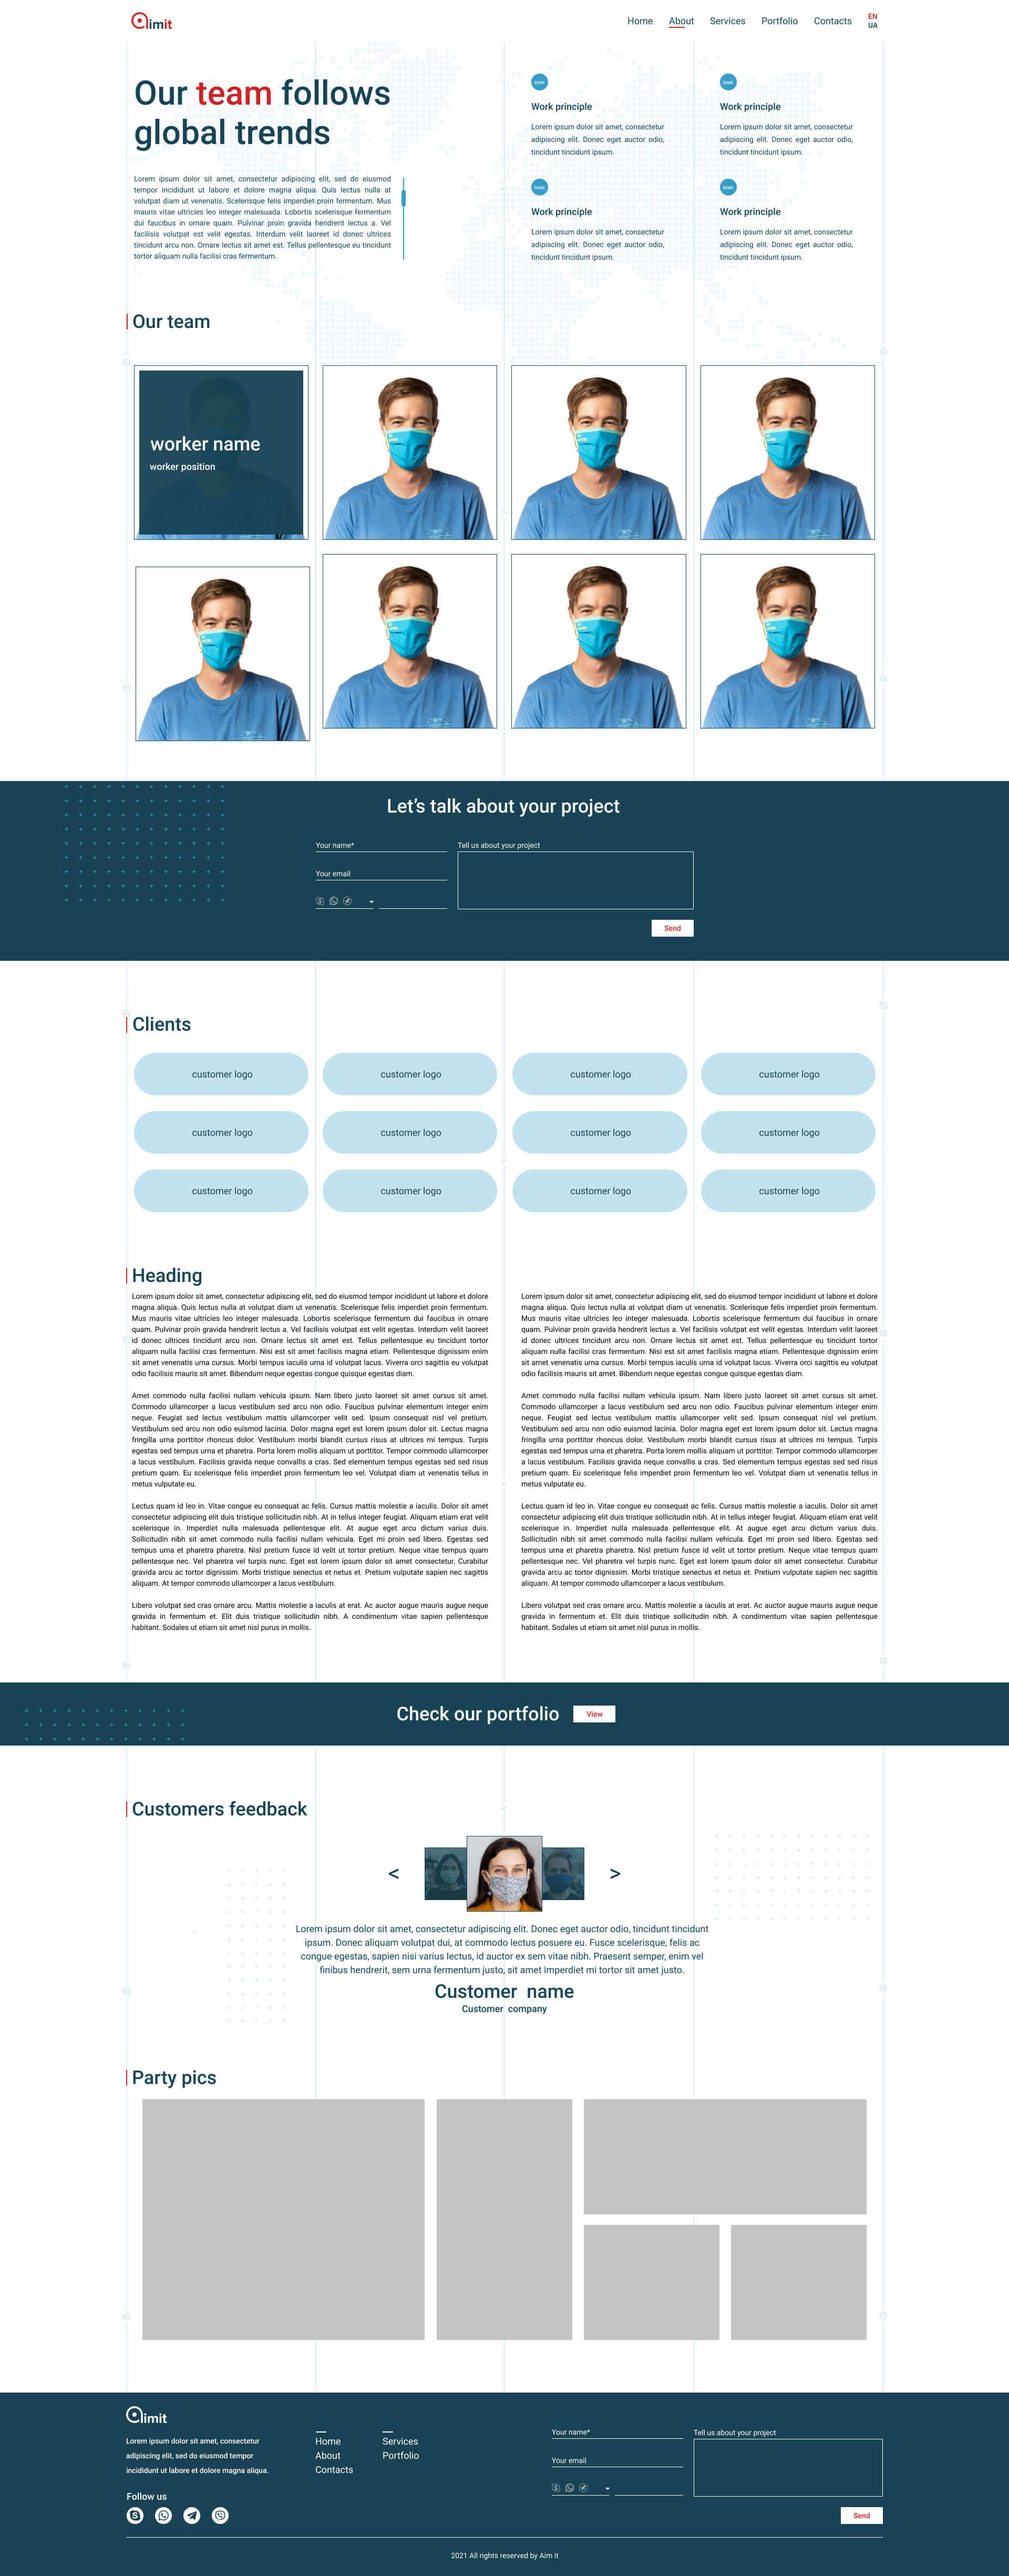
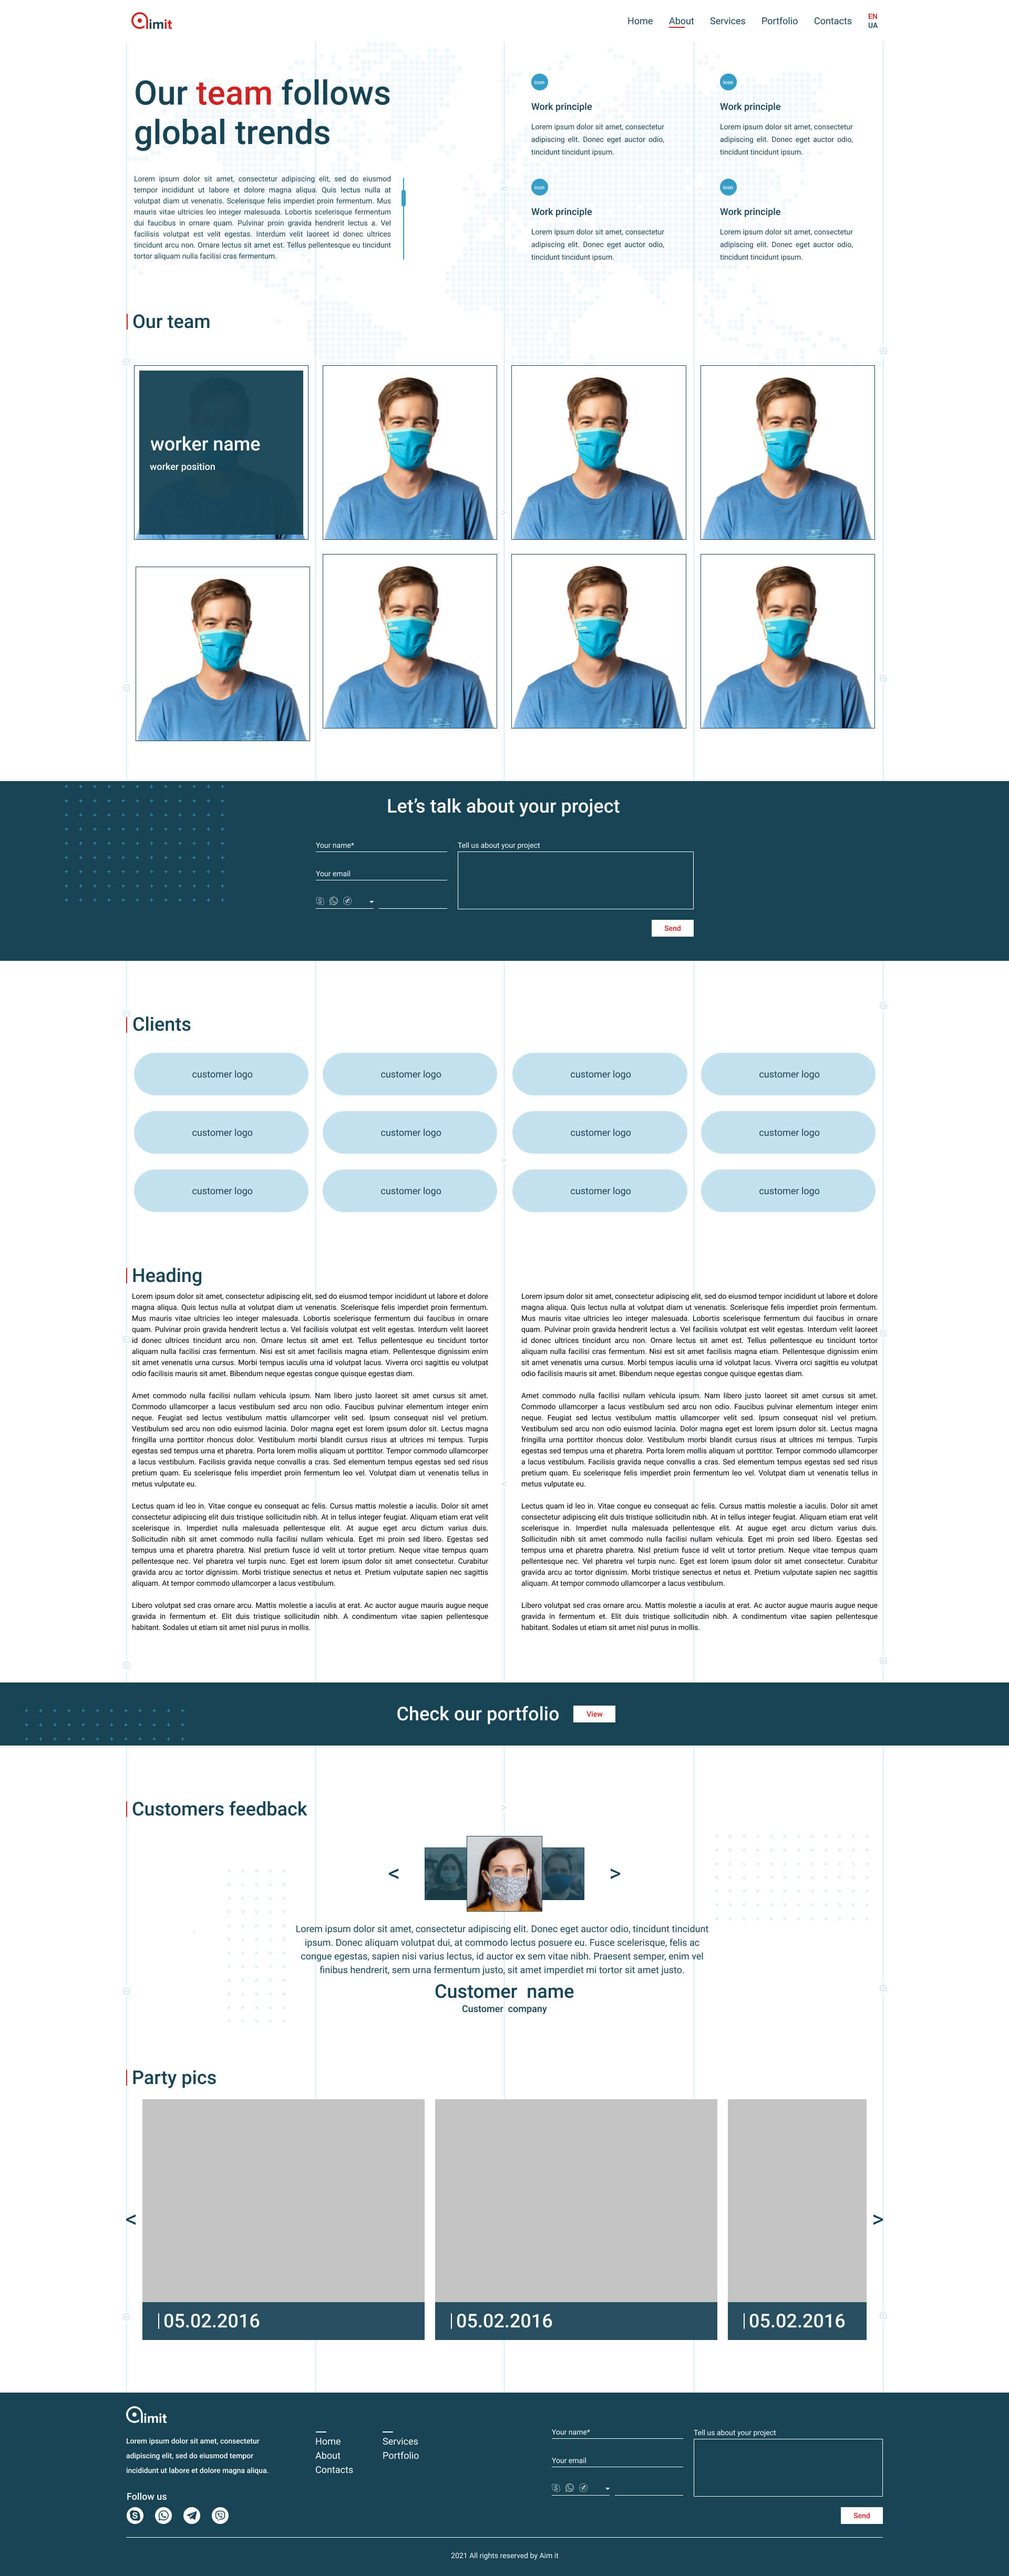
gallery section

Changed region(s): [[0.125, 0.8117, 0.875, 0.9053]]

diff --git a/components/Gallery.vue b/components/Gallery.vue
@@ -1,40 +1,38 @@
 <template>
   <section class="gallery">
     <div class="container">
-      <div class="hidden1">{{ content.gallery_list }}</div>
-
+      <!-- <div class="hidden">{{ content.gallery_list }}</div> -->
       <div class="inner-wrap">
         <h2 class="section-title">
           {{ content.section_title[0].text }}
         </h2>
 
-        <img
-          v-for="(item, i) in content.gallery_list"
-          :key="i"
-          :src="item.gallery_img.url"
-          class="image"
-          @click="index = i"
-        />
-        <!-- <client-only placeholder="Loading...">
-          <vue-gallery-slideshow
-            v-for="(item, i) in content.gallery_list"
-            :key="i"
-            :images="item.gallery_img.url"
-            :index="index"
-            @close="index = null"
-          ></vue-gallery-slideshow>
-        </client-only> -->
+        <div>
+          <VueSlickCarousel v-bind="slickOptions">
+            <div
+              v-for="item in content.gallery_list"
+              :key="item.id"
+              class="item-holder"
+            >
+              <img :src="item.gallery_img.url" class="image" />
+              <div v-if="item.date.length > 0" class="date-holder">
+                <p class="date">
+                  {{ item.date[0].text }}
+                </p>
+              </div>
+            </div>
+          </VueSlickCarousel>
+        </div>
       </div>
     </div>
   </section>
 </template>
 <script>
-// import VueGallerySlideshow from 'vue-gallery-slideshow';
+import VueSlickCarousel from 'vue-slick-carousel';
+import 'vue-slick-carousel/dist/vue-slick-carousel.css';
 export default {
   name: 'Gallery',
-  components: {
-    // VueGallerySlideshow,
-  },
+  components: { VueSlickCarousel },
   props: {
     content: {
       type: Object,
@@ -43,19 +41,30 @@ export default {
   },
   data() {
     return {
-      // images: [
-      //   'https://placekitten.com/801/800',
-      //   'https://placekitten.com/802/800',
-      //   'https://placekitten.com/803/800',
-      //   'https://placekitten.com/804/800',
-      //   'https://placekitten.com/805/800',
-      //   'https://placekitten.com/806/800',
-      //   'https://placekitten.com/807/800',
-      //   'https://placekitten.com/808/800',
-      //   'https://placekitten.com/809/800',
-      //   'https://placekitten.com/810/800',
-      // ],
-      index: null,
+      slickOptions: {
+        slidesToShow: 2.5,
+        slidesToScroll: 1,
+        infinite: true,
+        dots: false,
+        // adaptiveHeight: true,
+        responsive: [
+          {
+            breakpoint: 1024,
+            settings: {
+              slidesToShow: 2,
+            },
+          },
+          {
+            breakpoint: 640,
+            settings: {
+              slidesToShow: 1.5,
+            },
+          },
+          // You can unslick at a given breakpoint now by adding:
+          // settings: "unslick"
+          // instead of a settings object
+        ],
+      },
     };
   },
 };

diff --git a/pages/about.vue b/pages/about.vue
@@ -8,7 +8,7 @@
     <ColumnText :content="ColumnText" />
     <TitleButton :content="TitleButton" />
     <Feedback :content="Feedback" />
-    <!-- <Gallery :content="Gallery" /> -->
+    <Gallery :content="Gallery" />
     <StandardFooter :content="Footer" />
   </div>
 </template>
@@ -22,7 +22,7 @@ import Clients from '~/components/Clients.vue';
 import ColumnText from '~/components/ColumnText.vue';
 import TitleButton from '~/components/TitleButton.vue';
 import Feedback from '~/components/Feedback.vue';
-// import Gallery from '~/components/Gallery.vue';
+import Gallery from '~/components/Gallery.vue';
 import StandardFooter from '~/components/StandardFooter.vue';
 export default {
   name: 'About',
@@ -36,7 +36,7 @@ export default {
     ColumnText,
     TitleButton,
     Feedback,
-    // Gallery,
+    Gallery,
     StandardFooter,
   },
   async asyncData({ $siteData, $prismic, error }) {
@@ -48,7 +48,7 @@ export default {
     const ColumnText = (await $prismic.api.getSingle('text_columns')).data;
     const TitleButton = (await $prismic.api.getSingle('title_and_button')).data;
     const Feedback = (await $prismic.api.getSingle('customers_feedback')).data;
-    // const Gallery = (await $prismic.api.getSingle('gallery')).data;
+    const Gallery = (await $prismic.api.getSingle('gallery')).data;
     const Footer = (await $prismic.api.getSingle('footer')).data;
     return {
       Header,
@@ -59,7 +59,7 @@ export default {
       ColumnText,
       TitleButton,
       Feedback,
-      // Gallery,
+      Gallery,
       Footer,
     };
   },

diff --git a/assets/css/gallery.scss b/assets/css/gallery.scss
@@ -1,0 +1,55 @@
+.gallery {
+  padding: 0 0 93px;
+  .section-title {
+    padding-bottom: 12px;
+  }
+  .slick-list {
+    padding-left: 20% !important;
+  }
+  .slick-slide {
+    padding-left: 20px;
+  }
+  .slick-slider {
+    .slick-arrow {
[1 lines of base64/hex data omitted]
+      background-repeat: no-repeat;
+      width: 20px;
+      height: 20px;
+      position: absolute;
+      font-size: 0;
+      top: calc(50% - 10px);
+    }
+    .slick-prev {
+      left: -40px;
+    }
+    .slick-next {
+      transform: translate(0%, 0) rotate(180deg);
+      right: -40px;
+    }
+  }
+  .item-holder {
+    position: relative;
+    .date-holder {
+      background: rgba(31, 73, 90, 0.95);
+      position: absolute;
+      bottom: 0;
+      left: 0;
+      width: 100%;
+    }
+    .date {
+      color: var(--white);
+      font-weight: 500;
+      font-size: 36px;
+      padding: 9px 40px;
+      &::before {
+        content: '';
+        background-color: var(--white);
+        position: absolute;
+        top: 21px;
+        left: 30px;
+        height: 30px;
+        width: 2px;
+      }
+    }
+  }
+}

diff --git a/assets/css/global.css b/assets/css/global.css
@@ -16,4 +16,5 @@
 @import './title-button.scss';
 @import './feedback.scss';
 @import './contacts.scss';
+@import './gallery.scss';
 @import './footer.scss';
